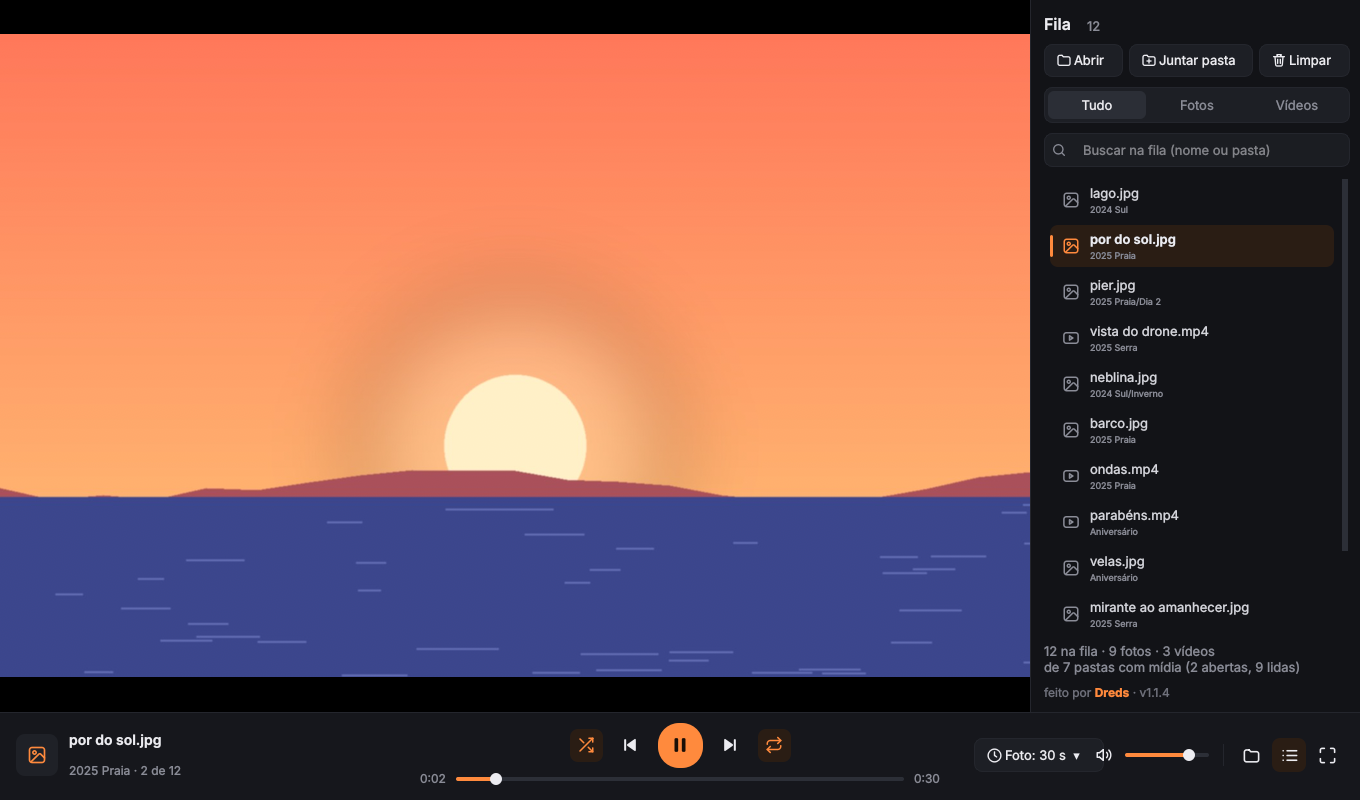
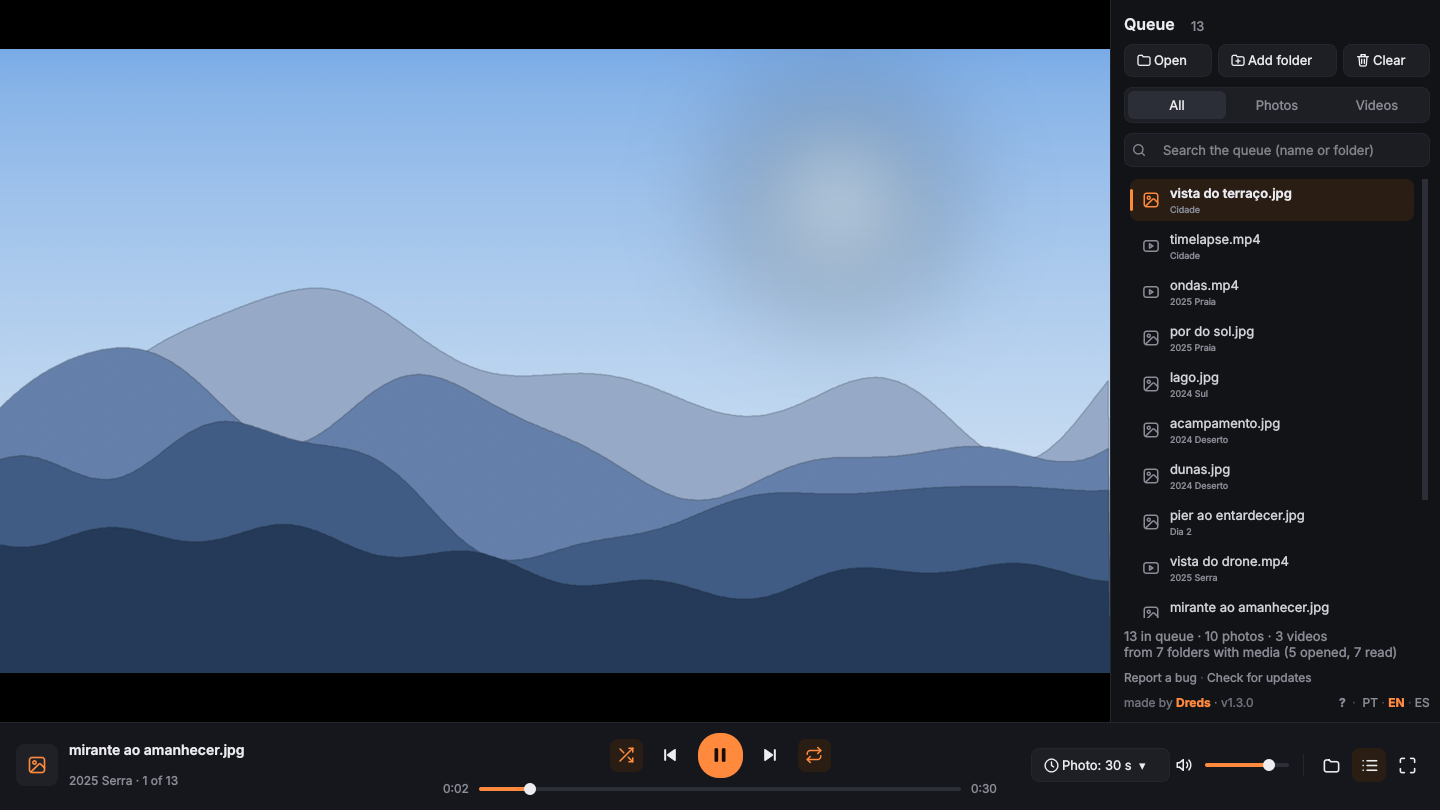
v1.3.0: README with the tutorial, new screenshots, keys, known limitations and tests

diff --git a/README.md b/README.md
@@ -13,7 +13,7 @@ A Windows player that takes a folder and **every subfolder inside it** and plays
 ![Version](https://img.shields.io/badge/version-1.3.0-ff8a3d)
 ![License](https://img.shields.io/badge/license-MIT-green)
 
-<img src="docs/ciranda-tocando.png" width="900" alt="Ciranda playing a photo, with the queue on the right showing files from several subfolders">
+<img src="docs/ciranda-tocando.png" width="900" alt="Ciranda 1.3.0 in English showing a mountain photo full width, the queue panel on the right with photos and videos from five folders and their subfolders, the footer with Report a bug, Check for updates, made by Dreds v1.3.0 and the PT EN ES switch, and the player bar with shuffle, previous, pause, next, repeat and a 30-second photo timer">
 
 </div>
 
@@ -42,20 +42,27 @@ VLC can sort of do this (a hidden *subdirectory behavior* option, photos with a 
 - **Report a bug from inside the app** (*Report a bug* at the bottom of the queue panel and of the start screen, or in the folder menu): you write what happened, see a diagnostic (versions, settings, end of the log) with every folder name, file name, user name and PC name removed (only the extension stays), and it opens a new GitHub issue already filled in. Nothing is sent until you click there. No GitHub account? *Copy report* copies it.
 - **Portuguese, English and Spanish.** The first time, Ciranda follows the Windows display language (anything else falls back to English); the **PT · EN · ES** switch in the footer changes it on the spot and is remembered. The installer follows Windows too.
 - **First-run tutorial and "What's new".** A short tutorial shows up the first time (the **?** in the footer brings it back), and after each update a "What's new in vX.Y.Z" card lists the changes once. Neither one stops playback; X or Esc closes them.
+- **Folder menu** (folder icon on the bar): open a folder, add another one, open loose files, continue the last queue, show the current file in Explorer, clear the queue or clear everything (queue + the *Continue* list), check for updates, report a bug, the tutorial and factory reset.
 - **Factory reset** inside the app, plus `RESTAURAR.bat` in the portable zip for when it won't even open. Neither touches your files.
 
+<p align="center">
+<img src="docs/ciranda-tutorial.png" width="720" alt="First run: the tutorial card in the middle of the window, step 1 of 5, Welcome to Ciranda, with Skip and Next buttons, over the start screen">
+<img src="docs/ciranda-menu-pastas.png" width="720" alt="The folder menu open: Open folder, Add another folder, Open files, Continue (5 folders), Show in Explorer, Clear queue, Clear all, Check for updates, Report a bug, How to use and Factory reset">
+</p>
 
 ### Keys
 
 | Key | Action |
 |---|---|
 | `Space` / `K` | play / pause |
-| `N` / `PgDn`, `P` / `PgUp` | next, previous |
+| `N` / `PgDn`, `P` / `PgUp` | next, previous (media keys work too) |
 | `←` / `→` | 5 s in a video, previous / next photo |
 | `Shift` + `←` / `→` | 30 s |
 | `↑` / `↓`, `M` | volume, mute |
-| `F`, `Enter`, `F11` | full screen (`Esc` leaves) |
+| `F`, `Enter`, `F11` | full screen (`Esc` leaves, or closes a card) |
 | `S`, `R` | shuffle, repeat |
+| `1` / `2` / `3` | everything / photos only / videos only |
+| `+` / `−` | photo time up / down (1 s) |
 | `L`, `Ctrl+F` | queue panel, search |
 | `E` | show the file in Explorer |
 | `Ctrl+O`, `Ctrl+Shift+O` | open folder, add folder |
@@ -67,7 +74,16 @@ VLC can sort of do this (a hidden *subdirectory behavior* option, photos with a 
 3. The installer isn't code-signed, so the first time Windows may show *"Windows protected your PC"*: click **More info → Run anyway**.
 4. Updating: Ciranda tells you when there's a new version and updates itself (or run the newer setup over it). Uninstall from **Settings → Apps**; settings stay in `%APPDATA%\Ciranda`.
 
-**Portable alternative:** `ciranda-vX.Y.Z-portatil.zip` from the same release. Unzip, double-click `Ciranda.exe`; the first time it installs Python 3.12 with `winget` and the dependencies (1 to 3 minutes).
+**Portable alternative:** `ciranda-vX.Y.Z-portatil.zip` from the same release. Unzip, double-click `Ciranda.exe`; the first time it installs Python 3.12 with `winget` and the dependencies (1 to 3 minutes). The portable copy doesn't update itself: *Update* opens the release page.
+
+## Known limitations
+
+- Windows 10/11, 64-bit only.
+- The installer isn't code-signed, so SmartScreen warns on the first run (see above).
+- Windows doesn't let apps make themselves the default: you pick Ciranda once in *Default apps* (or *Open with → Always*).
+- No subtitles menu, playlists or editing: it's a "play this whole folder tree" player.
+- The first time an iPhone HEIC photo shows up it takes a moment to convert; after that it comes from the cache (`%APPDATA%\Ciranda\cache-heic`, trimmed to 1 GB when Ciranda closes).
+- The portable zip needs internet and `winget` on the first run.
 
 ## How it's built
 
@@ -79,7 +95,8 @@ ciranda/biblioteca.py  scan: os.scandir with a stack, natural sort, no duplicate
 ciranda/fila.py        queue: order, deck shuffle, repeat, filter, add/remove, skip broken (no UI, testable)
 ciranda/janela.py      PySide6 interface with libmpv embedded in a native area
 ciranda/fotos.py       HEIC → JPEG cache
-ciranda/config.py      %APPDATA%\Ciranda\config.json
+ciranda/config.py      %APPDATA%\Ciranda\config.json (settings, language, what's-new and tutorial seen)
+ciranda/autoteste.py   the self-test: sample photos, real clicks on the menus, language switch, tutorial card
 ciranda/atualizacao.py update: latest release from the GitHub API, download, SHA-256 check, silent setup
 ciranda/relato.py      bug report: diagnostic without personal data, prefilled issues/new link
 ciranda/dialogos.py    update and bug report windows
@@ -93,7 +110,7 @@ ciranda/icones.py      hand-made SVG icons
 - **Clicks over the video:** mpv creates its own child window, which would swallow mouse and keyboard. The app disables that window (`EnableWindow`) and turns on `input-cursor-passthrough`, so input reaches Qt.
 - **Show in Explorer** uses `SHOpenFolderAndSelectItems`; the title bar follows the Windows 11 dark mode (DWM).
 - The `.dll` isn't in the repo (121 MB). The release workflow downloads a pinned [mpv-winbuild-cmake](https://github.com/shinchiro/mpv-winbuild-cmake) build and checks its SHA-256. See [THIRD-PARTY-NOTICES](THIRD-PARTY-NOTICES.md).
-- **The installer is built and tested on a real Windows runner** (`.github/workflows/release.yml`): PyInstaller packages Python, Qt and libmpv into `Ciranda.exe`; the packaged app runs its self-test (it really clicks the folder menu and the *Limpar* menu and checks they appear, then checks the signature); Inno Setup builds the setup; the setup is installed silently, the photo/video registration is checked, the installed app self-tests again, a second Ciranda must hand its file to the open one and quit (single window), the update path runs for real (the installed app finds the latest release, downloads its setup and checks the SHA-256, then a newer setup is applied the way *Atualizar agora* does it and must reopen Ciranda), and the uninstaller must remove the app, the Start menu shortcut, the right-click entry and every file-type registration. Only then the setup is attached to the release.
+- **The installer is built and tested on a real Windows runner** (`.github/workflows/release.yml`): PyInstaller packages Python, Qt and libmpv into `Ciranda.exe`; the packaged app runs its self-test (it really clicks the folder menu and the *Clear* menu, switches the language, opens the tutorial card and checks the signature); Inno Setup builds the setup; the setup is installed silently (in Spanish, to check the three installer languages), the photo/video registration is checked, the installed app self-tests again, a second Ciranda must hand its file to the open one and quit (single window), the update path runs for real (the installed app finds the latest release, downloads its setup and checks the SHA-256, then a newer setup is applied the way *Update* does it and must reopen Ciranda in the same install language), and the uninstaller must remove the app, the Start menu shortcut, the right-click entry and every file-type registration. Only then the setup is attached to the release.
 
 ### Running from a clone
 
@@ -108,20 +125,20 @@ x86_64-w64-mingw32-gcc -O2 -municode -mwindows -s lancador/ciranda.c r.res -o Ci
 ## Tests
 
 ```bash
-python app.py --autoteste=result.json        # self-test (the same one the Windows runner uses)
-```
-
-
-```bash
+python app.py --autoteste=result.json          # self-test (the same one the Windows runner uses)
 python tests/teste_logica.py [media-folder]    # scan + queue, no UI: 377 checks (384 with the media folder)
 # UI tests click for real with QTest; on Linux run them under Xvfb:
-CIRANDA_VO=x11 xvfb-run -a python tests/teste_assinatura.py <out>
+CIRANDA_VO=x11 xvfb-run -a -s "-screen 0 1400x860x24" python tests/teste_janela.py <media-folder> <out>
+CIRANDA_VO=x11 xvfb-run -a python tests/teste_botoes.py <media-folder> <out>
+CIRANDA_VO=x11 xvfb-run -a python tests/teste_limpar.py <media-folder> <out>
 CIRANDA_VO=x11 xvfb-run -a python tests/teste_restaurar.py <media-folder> <out>
+CIRANDA_VO=x11 xvfb-run -a python tests/teste_instancia.py <media-folder> <out>      # single window
+CIRANDA_VO=x11 xvfb-run -a python tests/teste_assinatura.py <out>
 CIRANDA_VO=x11 xvfb-run -a python tests/teste_atualizacao.py <media-folder> <out>   # update + bug report, fake GitHub
 CIRANDA_VO=x11 xvfb-run -a python tests/teste_idiomas.py <media-folder> <out>       # PT/EN/ES, tutorial, what's new
 ```
 
-Covered: natural order, a shuffle that never repeats within 50 rounds, repeat-one, filters, broken files, adding and removing, 84 loose folders and a 400-level-deep tree, an end-to-end run through MP4, MOV, WebM, AVI, MKV, GIF, HEIC, EXIF-rotated JPG, PNG, WebP and BMP with a corrupted file skipped, real clicks on the queue buttons and menus, the update bar and window against a fake GitHub (including a download whose SHA-256 doesn't match, which must be refused), and the bug report never carrying folder or file names. The logic and UI tests run on Linux; the app itself is used on Windows.
+Covered: natural order, a shuffle that never repeats within 50 rounds, repeat-one, filters, broken files, adding and removing, 84 loose folders and a 400-level-deep tree, an end-to-end run through MP4, MOV, WebM, AVI, MKV, GIF, HEIC, EXIF-rotated JPG, PNG, WebP and BMP with a corrupted file skipped, real clicks on the queue buttons and menus, the new-version card and update window against a fake GitHub (including a download whose SHA-256 doesn't match, which must be refused, and the X hiding that version), the bug report never carrying folder or file names, every text in the three languages, switching PT/EN/ES with real clicks, the tutorial on a fresh install and "What's new" after an update. The logic and UI tests run on Linux; the app itself is used on Windows.
 
 ## License
 
